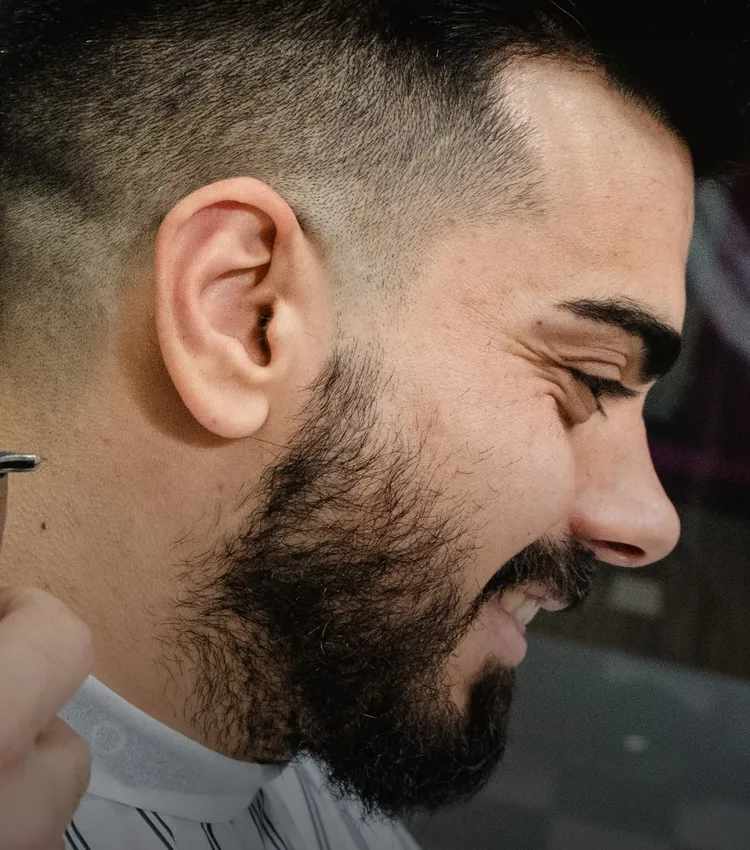
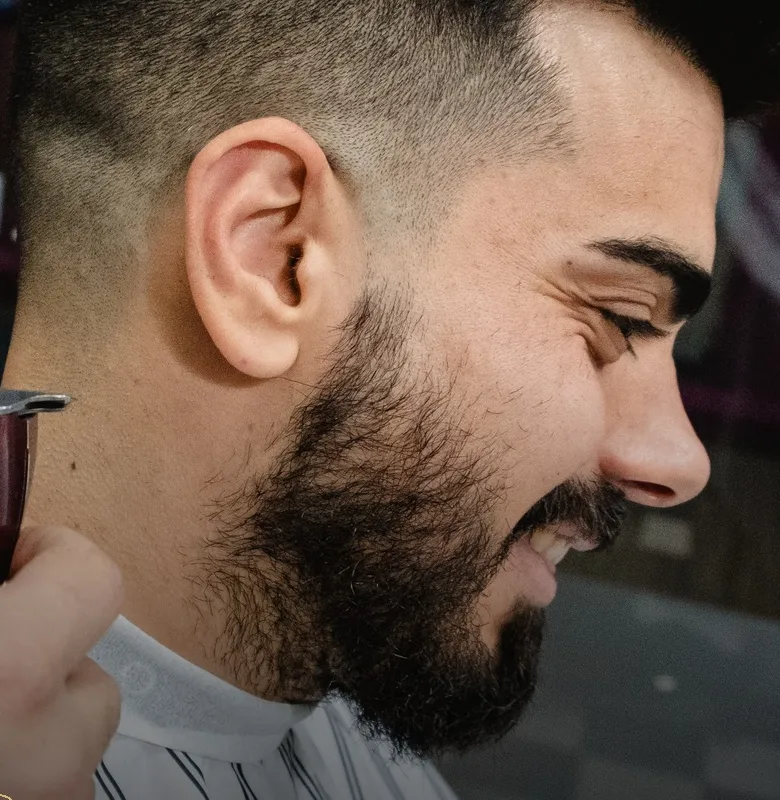
Segunda pasada: foto principal con la máquina, preguntas frecuentes, 6 reseñas deslizables, 'Cómo llegar' en la barra superior
Claude-Session: https://claude.ai/code/session_01C4dGYCz3d6tXbhkAYSJpBf

diff --git a/index.html b/index.html
@@ -140,7 +140,11 @@ height="0" width="0" style="display:none;visibility:hidden"></iframe></noscript>
       <a href="#resenas">Reseñas</a>
       <a href="#como-llegar">Cómo llegar</a>
     </nav>
-    <a class="btn btn-solid btn-compact js-track-reservar" data-origen="barra_superior"
+    <a class="topbar__where" href="#como-llegar">
+      <svg aria-hidden="true"><use href="#i-pin"/></svg>
+      Cómo llegar
+    </a>
+    <a class="btn btn-solid btn-compact topbar__book js-track-reservar" data-origen="barra_superior"
        href="https://www.fresha.com/a/nf-barberia-san-isidro-general-manuel-belgrano-126-txnyiawe"
        target="_blank" rel="noopener">
       <svg aria-hidden="true"><use href="#i-cal"/></svg>
@@ -176,8 +180,8 @@ height="0" width="0" style="display:none;visibility:hidden"></iframe></noscript>
   <!-- HERO -->
   <section class="hero" aria-labelledby="hero-title">
     <div class="hero__media">
-      <img src="assets/img/trabajos/hero-mobile.webp" width="750" height="850"
-           alt="Cliente sonriendo mientras Nicolás le termina el perfilado de la barba" fetchpriority="high">
+      <img src="assets/img/trabajos/hero-mobile.webp" width="780" height="800"
+           alt="Cliente sonriendo mientras le terminan el perfilado de la barba a máquina" fetchpriority="high">
     </div>
     <div class="hero__body wrap">
       <p class="hero__place">Barbería en San Isidro</p>
@@ -330,7 +334,7 @@ height="0" width="0" style="display:none;visibility:hidden"></iframe></noscript>
         <h2 class="h2" id="resenas-title">Lo que dicen los clientes</h2>
         <p class="section-lede">4,9 de promedio sobre 305 reseñas en Google.</p>
       </div>
-      <div class="reviews">
+      <div class="reviews" tabindex="0" aria-label="Reseñas de clientes">
         <figure class="review">
           <span class="stars" aria-label="5 estrellas"><svg><use href="#i-star"/></svg><svg><use href="#i-star"/></svg><svg><use href="#i-star"/></svg><svg><use href="#i-star"/></svg><svg><use href="#i-star"/></svg></span>
           <blockquote>“Es un genio Nicolás. Súper detallista. Lo recomiendo a full.”</blockquote>
@@ -345,6 +349,21 @@ height="0" width="0" style="display:none;visibility:hidden"></iframe></noscript>
           <span class="stars" aria-label="5 estrellas"><svg><use href="#i-star"/></svg><svg><use href="#i-star"/></svg><svg><use href="#i-star"/></svg><svg><use href="#i-star"/></svg><svg><use href="#i-star"/></svg></span>
           <blockquote>“Muy atento y amigable, todo ordenado y prolijo. Súper recomendable.”</blockquote>
           <cite>Ezequiel, en Google</cite>
+        </figure>
+        <figure class="review">
+          <span class="stars" aria-label="5 estrellas"><svg><use href="#i-star"/></svg><svg><use href="#i-star"/></svg><svg><use href="#i-star"/></svg><svg><use href="#i-star"/></svg><svg><use href="#i-star"/></svg></span>
+          <blockquote>“Un corte y detalle perfecto. Verdaderamente muy buen lugar, 10 puntos.”</blockquote>
+          <cite>Cliente, en Google</cite>
+        </figure>
+        <figure class="review">
+          <span class="stars" aria-label="5 estrellas"><svg><use href="#i-star"/></svg><svg><use href="#i-star"/></svg><svg><use href="#i-star"/></svg><svg><use href="#i-star"/></svg><svg><use href="#i-star"/></svg></span>
+          <blockquote>“Se nota el buen trato y las ganas de que salgas conforme.”</blockquote>
+          <cite>Cliente, en Fresha</cite>
+        </figure>
+        <figure class="review">
+          <span class="stars" aria-label="5 estrellas"><svg><use href="#i-star"/></svg><svg><use href="#i-star"/></svg><svg><use href="#i-star"/></svg><svg><use href="#i-star"/></svg><svg><use href="#i-star"/></svg></span>
+          <blockquote>“La mejor barbería de la zona por lejos. Precio, calidad y buena onda.”</blockquote>
+          <cite>Cliente, en Google</cite>
         </figure>
       </div>
       <div class="reviews-foot">
@@ -381,6 +400,33 @@ height="0" width="0" style="display:none;visibility:hidden"></iframe></noscript>
       <iframe class="map" title="Mapa de NF Barbería en Galería Belgrano, San Isidro" loading="lazy"
               referrerpolicy="no-referrer-when-downgrade"
               src="https://maps.google.com/maps?q=NF%20Barber%C3%ADa%2C%20Belgrano%20126%2C%20San%20Isidro%2C%20Buenos%20Aires&amp;z=17&amp;output=embed"></iframe>
+    </div>
+  </section>
+
+  <!-- PREGUNTAS FRECUENTES -->
+  <section class="section faq" id="preguntas" aria-labelledby="faq-title">
+    <div class="wrap">
+      <div class="section-head">
+        <h2 class="h2" id="faq-title">Antes de venir</h2>
+      </div>
+      <div class="faq__list">
+        <details>
+          <summary>¿Atienden sin turno?</summary>
+          <p>No, se atiende solo con turno. Así llegás y te sentás, sin esperar. Lo reservás online en un minuto.</p>
+        </details>
+        <details>
+          <summary>¿Cuánto tarda cada servicio?</summary>
+          <p>Desde 20 minutos un arreglo de barba hasta 1 h 20 min el corte y barba premium. La duración de cada uno figura en la lista de servicios.</p>
+        </details>
+        <details>
+          <summary>No encuentro el local, ¿dónde está?</summary>
+          <p>En el subsuelo de la Galería Belgrano, Belgrano 126, local 33. Entrás a la galería y bajás un piso. Si igual no lo ubicás, <a class="js-track-whatsapp" data-origen="faq" href="https://wa.me/5491173672627" target="_blank" rel="noopener">escribinos por WhatsApp</a> y te guiamos.</p>
+        </details>
+        <details>
+          <summary>¿Puedo hacer una consulta antes de reservar?</summary>
+          <p>Sí. Mandanos un WhatsApp al 11 7367-2627 con lo que quieras hacerte, incluso con una foto de referencia, y te decimos qué servicio te conviene.</p>
+        </details>
+      </div>
     </div>
   </section>
 

diff --git a/css/sections.css b/css/sections.css
@@ -13,13 +13,13 @@
   overflow:hidden;
 }
 .hero__media img{
-  width:100%; height:100%; object-fit:cover; object-position:50% 30%;
+  width:100%; height:100%; object-fit:cover; object-position:28% 30%;
 }
 .hero__media::after{
   content:''; position:absolute; inset:0;
   background:linear-gradient(180deg, rgba(18,17,16,0) 45%, rgba(18,17,16,0.85) 85%, var(--color-black) 100%);
 }
-.hero__body{ position:relative; margin-top:-64px; padding-bottom:var(--space-7); }
+.hero__body{ position:relative; margin-top:-64px; padding-bottom:var(--space-6); }
 .hero__place{ font-size:15px; color:var(--color-gold-bright); font-weight:500; margin-bottom:12px; }
 .hero__title{ font-size:clamp(40px, 11vw, 76px); max-width:11ch; }
 .hero__lede{ margin-top:18px; font-size:18px; color:var(--color-ivory-dim); max-width:36ch; }
@@ -139,3 +139,37 @@ footer{
 }
 
 @media (min-width:760px){ .only-mobile{ display:none; } }
+
+/* ---------------------------------------------------------
+   PREGUNTAS FRECUENTES
+   --------------------------------------------------------- */
+.faq__list{ max-width:760px; border-top:1px solid var(--color-line); }
+.faq details{ border-bottom:1px solid var(--color-line); }
+.faq summary{
+  list-style:none; cursor:pointer;
+  display:flex; justify-content:space-between; align-items:center; gap:16px;
+  padding:20px 0; min-height:44px;
+  font-family:var(--font-display); font-size:20px;
+}
+.faq summary::-webkit-details-marker{ display:none; }
+.faq summary::after{
+  content:'+'; flex-shrink:0;
+  font-family:var(--font-body); font-size:24px; line-height:1; color:var(--color-gold-bright);
+  transition:transform var(--ease);
+}
+.faq details[open] summary::after{ transform:rotate(45deg); }
+.faq details p{ padding:0 0 20px; color:var(--color-ivory-dim); max-width:60ch; }
+.faq details a{ color:var(--color-gold-bright); text-decoration:underline; text-underline-offset:3px; }
+
+/* ---------------------------------------------------------
+   ENTRADA DEL HERO — un solo momento animado al cargar
+   --------------------------------------------------------- */
+@media (prefers-reduced-motion: no-preference){
+  .hero__media img{ animation:hero-in 1100ms cubic-bezier(.2,.7,.2,1) both; }
+  .hero__body > *{ animation:hero-text 700ms ease both; }
+  .hero__body > :nth-child(2){ animation-delay:80ms; }
+  .hero__body > :nth-child(3){ animation-delay:160ms; }
+  .hero__body > :nth-child(n+4){ animation-delay:240ms; }
+}
+@keyframes hero-in{ from{ opacity:0; transform:scale(1.06); } to{ opacity:1; transform:none; } }
+@keyframes hero-text{ from{ opacity:0; transform:translateY(10px); } to{ opacity:1; transform:none; } }

diff --git a/css/components.css b/css/components.css
@@ -169,3 +169,23 @@
 .contact-links a{ color:var(--color-ivory-dim); display:inline-flex; align-items:center; gap:8px; min-height:44px; }
 .contact-links a:hover{ color:var(--color-gold-bright); }
 .contact-links svg{ width:18px; height:18px; }
+
+/* ---------- Topbar: en celular "Cómo llegar"; en compu el botón de reserva ---------- */
+.topbar__where{
+  display:inline-flex; align-items:center; gap:8px; min-height:44px;
+  font-size:15px; font-weight:500; color:var(--color-gold-bright);
+}
+.topbar__where svg{ width:18px; height:18px; }
+@media (max-width:759px){ .topbar__book{ display:none; } }
+@media (min-width:760px){ .topbar__where{ display:none; } }
+
+/* ---------- Reseñas: carrusel deslizable en celular ---------- */
+@media (max-width:759px){
+  .reviews{
+    grid-auto-flow:column; grid-auto-columns:84%;
+    overflow-x:auto; scroll-snap-type:x mandatory; scrollbar-width:none;
+    margin-inline:calc(var(--gutter) * -1); padding-inline:var(--gutter); scroll-padding-inline:var(--gutter);
+  }
+  .reviews::-webkit-scrollbar{ display:none; }
+  .review{ scroll-snap-align:start; }
+}

diff --git a/css/base.css b/css/base.css
@@ -64,7 +64,7 @@ button{ font:inherit; cursor:pointer; background:none; border:none; color:inheri
 .skip-link:focus{ top:12px; }
 
 /* Secciones: el padding vertical vive SOLO acá para no pisarse con .wrap */
-.section{ padding-block:var(--space-8); }
+.section{ padding-block:64px; }
 @media (min-width:760px){ .section{ padding-block:var(--space-9); } }
 
 .section-head{ max-width:var(--text-width); margin-bottom:var(--space-5); }
